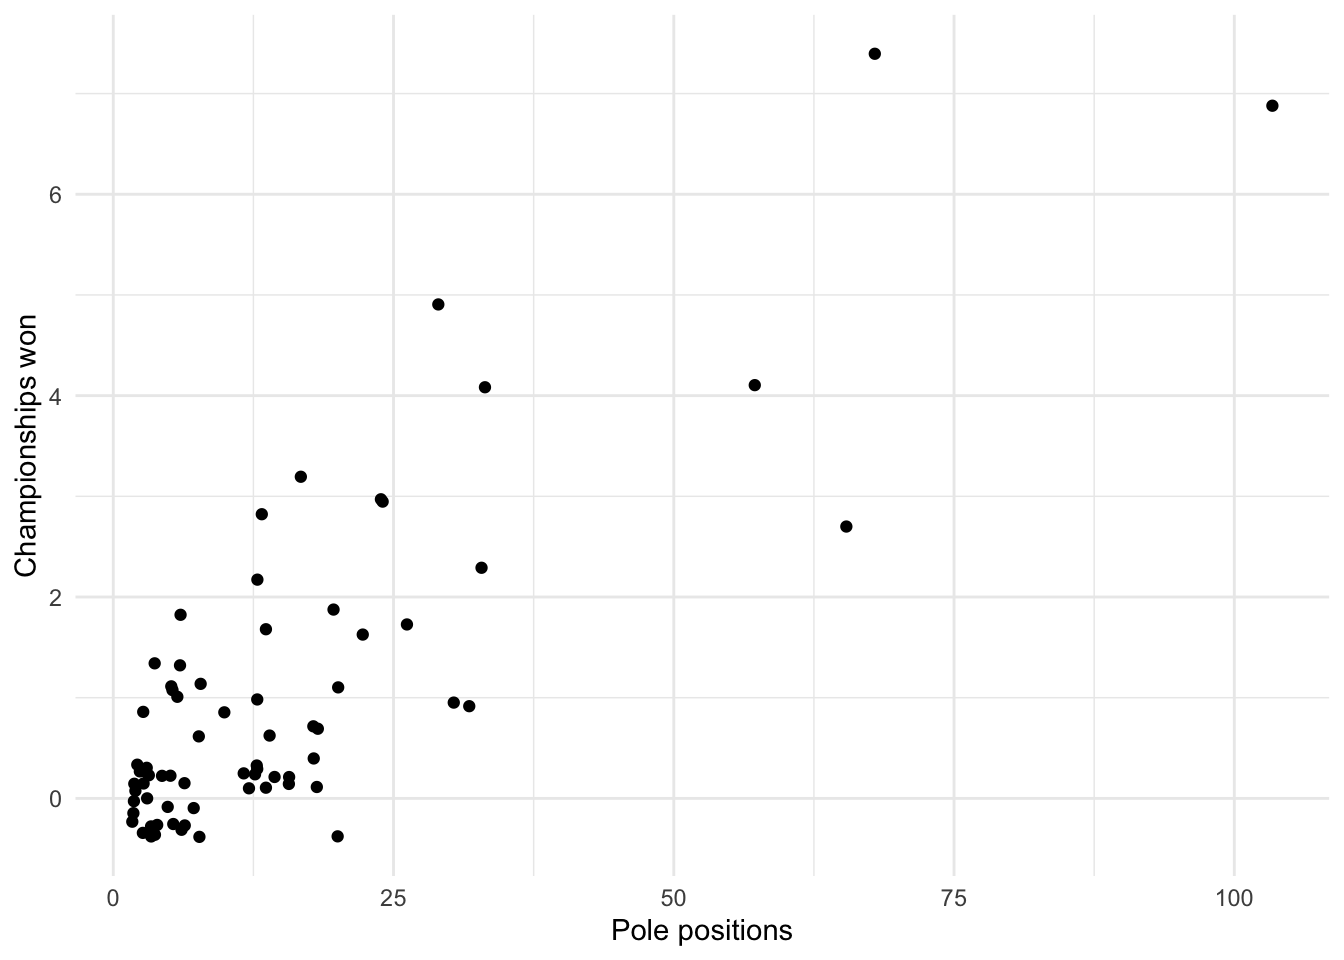
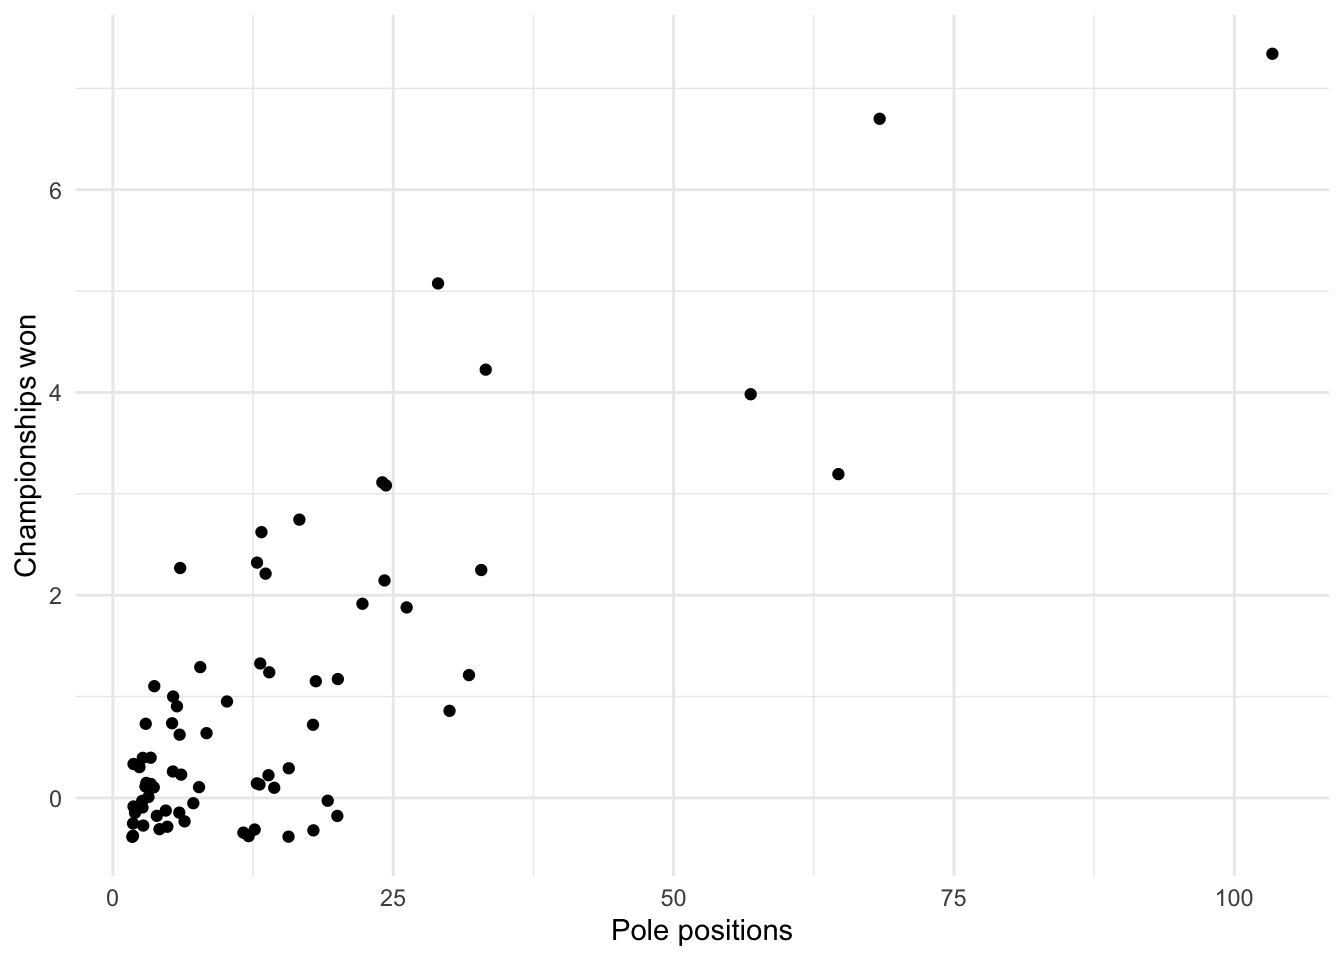
edit web scraping post

diff --git a/content/blog/2023-01-16-web-scraping-in-r/index.html b/content/blog/2023-01-16-web-scraping-in-r/index.html
@@ -143,14 +143,14 @@ output:
 
 NYT_page</code></pre>
 <pre><code>## {html_document}
-## &lt;html lang=&quot;en-US&quot; xmlns:og=&quot;http://opengraphprotocol.org/schema/&quot;&gt;
+## &lt;html lang=&quot;en&quot; class=&quot; nytapp-vi-homepage&quot; xmlns:og=&quot;http://opengraphprotocol.org/schema/&quot;&gt;
 ## [1] &lt;head&gt;\n&lt;meta http-equiv=&quot;Content-Type&quot; content=&quot;text/html; charset=UTF-8 ...
 ## [2] &lt;body&gt;\n    &lt;div id=&quot;app&quot;&gt;\n&lt;a class=&quot;css-kgn7zc&quot; href=&quot;#site-content&quot;&gt;Sk ...</code></pre>
 </div>
 <div id="parsing-html-content" class="section level2">
 <h2>Parsing HTML content</h2>
 <p>As we saw in the last chunk of code, <code>NYT_page</code> contains the raw HTML code, which is not so easily readable.</p>
-<p>In order to make it readable from R it has to be parsed, which means generating a Document Object Model (DOM) from the raw HTML. DOM is what connects scripts and web pages by representing the structure of a document in memory.</p>
+<p>In order to make it readable from R it has to be parsed, which means generating a Document Object Model (DOM) from the raw HTML. DOM is what connects scripts and web pages by representing the structure of a document in memory. If you retrieve the <a href="https://www.knowledgehut.com/blog/web-development/creating-http-server-with-node-js" target="_blank">HTTP request using Node.js</a>, you can give the raw HTML response to R for parsing and further analysis.</p>
 <p><code>rvest</code> provides 2 ways to select HTML elements:</p>
 <ol style="list-style-type: decimal">
 <li><strong>XPath</strong></li>
@@ -172,12 +172,12 @@ NYT_page</code></pre>
 
 head(summaries_css)</code></pre>
 <pre><code>## {xml_nodeset (6)}
-## [1] &lt;li class=&quot;summary-class&quot;&gt;Five other people are in critical condition aft ...
-## [2] &lt;li class=&quot;summary-class&quot;&gt;The suspect, who died of a self-inflicted gunsh ...
-## [3] &lt;p class=&quot;summary-class css-9lwb1u&quot;&gt;The Biden administration is looking i ...
-## [4] &lt;p class=&quot;summary-class css-9lwb1u&quot;&gt;Republicans have pulled back on legis ...
-## [5] &lt;p class=&quot;summary-class css-9lwb1u&quot;&gt;Since a disastrous earthquake a week  ...
-## [6] &lt;p class=&quot;summary-class css-9lwb1u&quot;&gt;Hundreds of people facing long prison ...</code></pre>
+## [1] &lt;p class=&quot;summary-class css-dcsqcp&quot;&gt;Donald Trump, the first former U.S. p ...
+## [2] &lt;p class=&quot;summary-class css-yg12w5&quot;&gt;Consumer prices rose 4 percent in the ...
+## [3] &lt;p class=&quot;summary-class css-yg12w5&quot;&gt;At least 11 people were killed and 28 ...
+## [4] &lt;p class=&quot;summary-class css-yg12w5&quot;&gt;Outnumbered, outgunned and out-tanked ...
+## [5] &lt;p class=&quot;summary-class css-yg12w5&quot;&gt;Artificial intelligence in medicine h ...
+## [6] &lt;p class=&quot;summary-class css-yg12w5&quot;&gt;Thousands of Indian women have been a ...</code></pre>
 <p>The easiest way to obtain a CSS selector is opening the inspect mode, find the element you desire and right click on it. Then click on <code>copy</code> and <code>copy selector</code>.</p>
 </div>
 <div id="xpath" class="section level3">
@@ -189,12 +189,12 @@ head(summaries_css)</code></pre>
 
 head(summaries_xpath)</code></pre>
 <pre><code>## {xml_nodeset (6)}
-## [1] &lt;li class=&quot;summary-class&quot;&gt;Five other people are in critical condition aft ...
-## [2] &lt;li class=&quot;summary-class&quot;&gt;The suspect, who died of a self-inflicted gunsh ...
-## [3] &lt;p class=&quot;summary-class css-9lwb1u&quot;&gt;The Biden administration is looking i ...
-## [4] &lt;p class=&quot;summary-class css-9lwb1u&quot;&gt;Republicans have pulled back on legis ...
-## [5] &lt;p class=&quot;summary-class css-9lwb1u&quot;&gt;Since a disastrous earthquake a week  ...
-## [6] &lt;p class=&quot;summary-class css-9lwb1u&quot;&gt;Hundreds of people facing long prison ...</code></pre>
+## [1] &lt;p class=&quot;summary-class css-dcsqcp&quot;&gt;Donald Trump, the first former U.S. p ...
+## [2] &lt;p class=&quot;summary-class css-yg12w5&quot;&gt;Consumer prices rose 4 percent in the ...
+## [3] &lt;p class=&quot;summary-class css-yg12w5&quot;&gt;At least 11 people were killed and 28 ...
+## [4] &lt;p class=&quot;summary-class css-yg12w5&quot;&gt;Outnumbered, outgunned and out-tanked ...
+## [5] &lt;p class=&quot;summary-class css-yg12w5&quot;&gt;Artificial intelligence in medicine h ...
+## [6] &lt;p class=&quot;summary-class css-yg12w5&quot;&gt;Thousands of Indian women have been a ...</code></pre>
 <p>Obviously the data we collected with CSS selector and XPath are exactly the same.</p>
 </div>
 </div>
@@ -205,12 +205,12 @@ head(summaries_xpath)</code></pre>
 NYT_summaries_xpath &lt;- html_text(summaries_xpath)</code></pre>
 <p>We only print some of them:</p>
 <pre class="r"><code>head(NYT_summaries_css)</code></pre>
-<pre><code>## [1] &quot;Five other people are in critical condition after shootings on the campus.&quot;                                                                               
-## [2] &quot;The suspect, who died of a self-inflicted gunshot wound, is a 43-year-old man who is not affiliated with the university, the police said.&quot;                
-## [3] &quot;The Biden administration is looking into mysterious U.F.O. encounters and pushing back against China over accusations of widespread espionage.&quot;           
-## [4] &quot;Republicans have pulled back on legislation to crack down on immigration as internal disputes conspire with a tiny majority to freeze them in place.&quot;     
-## [5] &quot;Since a disastrous earthquake a week ago, little aid has come to the hard-hit northwest of Syria, which is under the control of opposition forces.&quot;       
-## [6] &quot;Hundreds of people facing long prison sentences are being spirited out of the country, with one trip using six different cars over more than 4,000 miles.&quot;</code></pre>
+<pre><code>## [1] &quot;Donald Trump, the first former U.S. president to face federal charges, is scheduled to be arraigned at 3 p.m. Eastern. He is expected to plead not guilty.&quot;
+## [2] &quot;Consumer prices rose 4 percent in the year through May, another sign of cooling inflation as the Federal Reserve considers whether to raise rates.&quot;        
+## [3] &quot;At least 11 people were killed and 28 injured on Tuesday in Kryvyi Rih, a city already reeling from the Kakhovka dam disaster.&quot;                            
+## [4] &quot;Outnumbered, outgunned and out-tanked, Ukraine is putting up a scrappy defense of Marinka, a city near Bakhmut that is a few blocks from falling.&quot;         
+## [5] &quot;Artificial intelligence in medicine has its drawbacks, but some physicians find that ChatGPT helps them communicate empathetically with patients.&quot;         
+## [6] &quot;Thousands of Indian women have been abandoned by men working overseas, leaving them trapped in their in-laws’ homes, and often scammed out of dowries.&quot;</code></pre>
 </div>
 </div>
 <div id="a-real-application-of-web-scraping-in-r" class="section level1">
@@ -241,42 +241,40 @@ NYT_summaries_xpath &lt;- html_text(summaries_xpath)</code></pre>
 <p>To inspect it, we display the first and last observations, and the structure of the dataset:</p>
 <pre class="r"><code>head(drivers_F1) # first 6 rows</code></pre>
 <pre><code>## # A tibble: 6 × 11
-##   `Driver Name`  Natio…¹ Seaso…² Drive…³ Race …⁴ Race …⁵ Pole …⁶ Race …⁷ Podiums
-##   &lt;chr&gt;          &lt;chr&gt;   &lt;chr&gt;   &lt;chr&gt;   &lt;chr&gt;   &lt;chr&gt;   &lt;chr&gt;   &lt;chr&gt;   &lt;chr&gt;  
-## 1 Carlo Abate    Italy   1962–1… 0       3       0       0       0       0      
-## 2 George Abecas… United… 1951–1… 0       2       2       0       0       0      
-## 3 Kenny Acheson  United… 1983, … 0       10      3       0       0       0      
-## 4 Andrea de Ada… Italy   1968, … 0       36      30      0       0       0      
-## 5 Philippe Adams Belgium 1994    0       2       2       0       0       0      
-## 6 Walt Ader      United… 1950    0       1[b]    1       0       0       0      
-## # … with 2 more variables: `Fastest laps` &lt;chr&gt;, `Points[a]` &lt;chr&gt;, and
-## #   abbreviated variable names ¹Nationality, ²`Seasons Competed`,
-## #   ³`Drivers&#39; Championships`, ⁴`Race Entries`, ⁵`Race Starts`,
-## #   ⁶`Pole Positions`, ⁷`Race Wins`</code></pre>
+##   `Driver name`     Nationality    `Seasons competed` `Drivers&#39; Championships`
+##   &lt;chr&gt;             &lt;chr&gt;          &lt;chr&gt;              &lt;chr&gt;                   
+## 1 Carlo Abate       Italy          1962–1963          0                       
+## 2 George Abecassis  United Kingdom 1951–1952          0                       
+## 3 Kenny Acheson     United Kingdom 1983, 1985         0                       
+## 4 Andrea de Adamich Italy          1968, 1970–1973    0                       
+## 5 Philippe Adams    Belgium        1994               0                       
+## 6 Walt Ader         United States  1950               0                       
+## # ℹ 7 more variables: `Race entries` &lt;chr&gt;, `Race starts` &lt;chr&gt;,
+## #   `Pole positions` &lt;chr&gt;, `Race wins` &lt;chr&gt;, Podiums &lt;chr&gt;,
+## #   `Fastest laps` &lt;chr&gt;, `Points[a]` &lt;chr&gt;</code></pre>
 <pre class="r"><code>tail(drivers_F1) # last 6 rows</code></pre>
 <pre><code>## # A tibble: 6 × 11
-##   `Driver Name`  Natio…¹ Seaso…² Drive…³ Race …⁴ Race …⁵ Pole …⁶ Race …⁷ Podiums
-##   &lt;chr&gt;          &lt;chr&gt;   &lt;chr&gt;   &lt;chr&gt;   &lt;chr&gt;   &lt;chr&gt;   &lt;chr&gt;   &lt;chr&gt;   &lt;chr&gt;  
-## 1 Emilio Zapico  Spain   1976    0       1       0       0       0       0      
-## 2 Zhou Guanyu*   China   2022    0       22      22      0       0       0      
-## 3 Ricardo Zonta  Brazil  1999–2… 0       37      36      0       0       0      
-## 4 Renzo Zorzi    Italy   1975–1… 0       7       7       0       0       0      
-## 5 Ricardo Zunino Argent… 1979–1… 0       11      10      0       0       0      
-## 6 Driver Name    Nation… Season… Driver… Race E… Race S… Pole P… Race W… Podiums
-## # … with 2 more variables: `Fastest laps` &lt;chr&gt;, `Points[a]` &lt;chr&gt;, and
-## #   abbreviated variable names ¹Nationality, ²`Seasons Competed`,
-## #   ³`Drivers&#39; Championships`, ⁴`Race Entries`, ⁵`Race Starts`,
-## #   ⁶`Pole Positions`, ⁷`Race Wins`</code></pre>
+##   `Driver name`  Nationality `Seasons competed`   `Drivers&#39; Championships`
+##   &lt;chr&gt;          &lt;chr&gt;       &lt;chr&gt;                &lt;chr&gt;                   
+## 1 Emilio Zapico  Spain       1976                 0                       
+## 2 Zhou Guanyu*   China       2022                 0                       
+## 3 Ricardo Zonta  Brazil      1999–2001, 2004–2005 0                       
+## 4 Renzo Zorzi    Italy       1975–1977            0                       
+## 5 Ricardo Zunino Argentina   1979–1981            0                       
+## 6 Driver name    Nationality Seasons competed     Drivers&#39; Championships  
+## # ℹ 7 more variables: `Race entries` &lt;chr&gt;, `Race starts` &lt;chr&gt;,
+## #   `Pole positions` &lt;chr&gt;, `Race wins` &lt;chr&gt;, Podiums &lt;chr&gt;,
+## #   `Fastest laps` &lt;chr&gt;, `Points[a]` &lt;chr&gt;</code></pre>
 <pre class="r"><code>str(drivers_F1) # structure of the dataset</code></pre>
 <pre><code>## tibble [869 × 11] (S3: tbl_df/tbl/data.frame)
-##  $ Driver Name           : chr [1:869] &quot;Carlo Abate&quot; &quot;George Abecassis&quot; &quot;Kenny Acheson&quot; &quot;Andrea de Adamich&quot; ...
+##  $ Driver name           : chr [1:869] &quot;Carlo Abate&quot; &quot;George Abecassis&quot; &quot;Kenny Acheson&quot; &quot;Andrea de Adamich&quot; ...
 ##  $ Nationality           : chr [1:869] &quot;Italy&quot; &quot;United Kingdom&quot; &quot;United Kingdom&quot; &quot;Italy&quot; ...
-##  $ Seasons Competed      : chr [1:869] &quot;1962–1963&quot; &quot;1951–1952&quot; &quot;1983, 1985&quot; &quot;1968, 1970–1973&quot; ...
+##  $ Seasons competed      : chr [1:869] &quot;1962–1963&quot; &quot;1951–1952&quot; &quot;1983, 1985&quot; &quot;1968, 1970–1973&quot; ...
 ##  $ Drivers&#39; Championships: chr [1:869] &quot;0&quot; &quot;0&quot; &quot;0&quot; &quot;0&quot; ...
-##  $ Race Entries          : chr [1:869] &quot;3&quot; &quot;2&quot; &quot;10&quot; &quot;36&quot; ...
-##  $ Race Starts           : chr [1:869] &quot;0&quot; &quot;2&quot; &quot;3&quot; &quot;30&quot; ...
-##  $ Pole Positions        : chr [1:869] &quot;0&quot; &quot;0&quot; &quot;0&quot; &quot;0&quot; ...
-##  $ Race Wins             : chr [1:869] &quot;0&quot; &quot;0&quot; &quot;0&quot; &quot;0&quot; ...
+##  $ Race entries          : chr [1:869] &quot;3&quot; &quot;2&quot; &quot;10&quot; &quot;36&quot; ...
+##  $ Race starts           : chr [1:869] &quot;0&quot; &quot;2&quot; &quot;3&quot; &quot;30&quot; ...
+##  $ Pole positions        : chr [1:869] &quot;0&quot; &quot;0&quot; &quot;0&quot; &quot;0&quot; ...
+##  $ Race wins             : chr [1:869] &quot;0&quot; &quot;0&quot; &quot;0&quot; &quot;0&quot; ...
 ##  $ Podiums               : chr [1:869] &quot;0&quot; &quot;0&quot; &quot;0&quot; &quot;0&quot; ...
 ##  $ Fastest laps          : chr [1:869] &quot;0&quot; &quot;0&quot; &quot;0&quot; &quot;0&quot; ...
 ##  $ Points[a]             : chr [1:869] &quot;0&quot; &quot;0&quot; &quot;0&quot; &quot;6&quot; ...</code></pre>
@@ -318,16 +316,16 @@ drivers_F1 &lt;- drivers_F1[-nrow(drivers_F1), ] # remove last row</code></pre>
 ##  8 France                            4
 ##  9 Italy                             3
 ## 10 Netherlands                       2
-## # … with 38 more rows</code></pre>
+## # ℹ 38 more rows</code></pre>
 <ol start="2" style="list-style-type: decimal">
 <li>Who has the most Championships?</li>
 </ol>
 <pre class="r"><code>drivers_F1 %&gt;%
-  group_by(`Driver Name`) %&gt;%
+  group_by(`Driver name`) %&gt;%
   summarise(championship_pilot = sum(as.double(`Drivers&#39; Championships`))) %&gt;%
   arrange(desc(championship_pilot))</code></pre>
 <pre><code>## # A tibble: 868 × 2
-##    `Driver Name`       championship_pilot
+##    `Driver name`       championship_pilot
 ##    &lt;chr&gt;                            &lt;dbl&gt;
 ##  1 Lewis Hamilton~                      7
 ##  2 Michael Schumacher^                  7
@@ -339,14 +337,14 @@ drivers_F1 &lt;- drivers_F1[-nrow(drivers_F1), ] # remove last row</code></pre>
 ##  8 Jackie Stewart^                      3
 ##  9 Nelson Piquet^                       3
 ## 10 Niki Lauda^                          3
-## # … with 858 more rows</code></pre>
+## # ℹ 858 more rows</code></pre>
 <p>Sorry Michael, it looks like Lewis dethroned you.</p>
 <ol start="3" style="list-style-type: decimal">
 <li>Is there a relation between the number of Championships won and the number of race pole positions?</li>
 </ol>
 <pre class="r"><code>drivers_F1 %&gt;%
-  filter(`Pole Positions` &gt; 1) %&gt;%
-  ggplot(aes(x = as.double(`Pole Positions`), y = as.double(`Drivers&#39; Championships`))) +
+  filter(`Pole positions` &gt; 1) %&gt;%
+  ggplot(aes(x = as.double(`Pole positions`), y = as.double(`Drivers&#39; Championships`))) +
   geom_point(position = &quot;jitter&quot;) +
   labs(y = &quot;Championships won&quot;, x = &quot;Pole positions&quot;) +
   theme_minimal()</code></pre>
